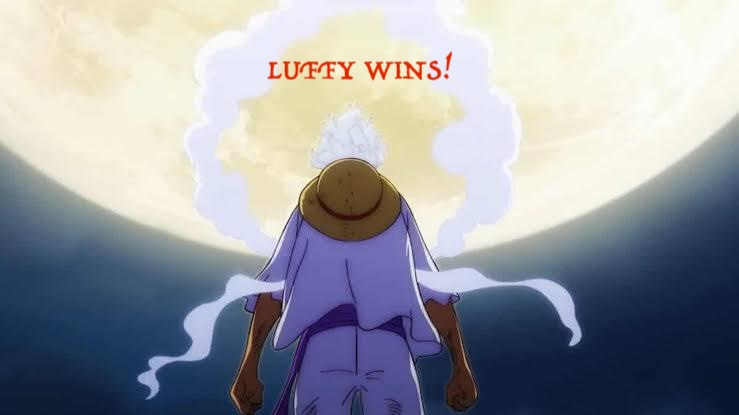
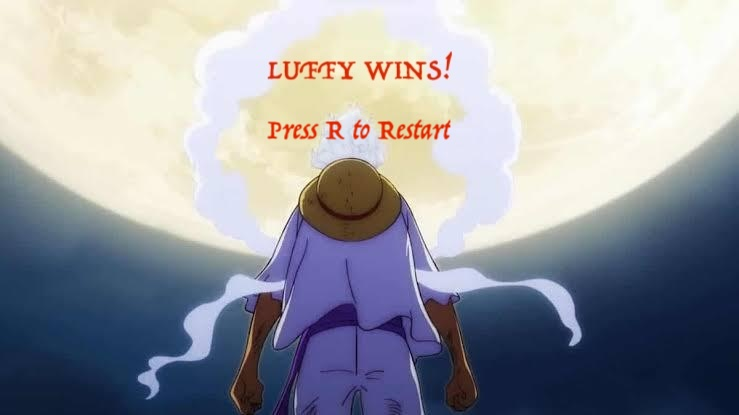
Game Over Status + Resetting game functionality

Changed region(s): [[0.3424, 0.2892, 0.6225, 0.347]]

diff --git a/Project 2/main.cpp b/Project 2/main.cpp
@@ -10,8 +10,9 @@
 
 #include "starter/cs3113.h"
 
-enum MEATSTATUS {ACTIVE, INACTIVE};
-enum WINNER {NONE, LUFFY, ZORO};
+enum Meatstatus {ACTIVE, INACTIVE};
+enum Winner {NONE, LUFFY, ZORO};
+enum GameState {PLAYING, GAME_OVER};
 
 // Global Constants
 constexpr int SCREEN_WIDTH  = 1600 / 2,
@@ -65,11 +66,13 @@ Vector2 gLuffyPosition  = LUFFY_INIT_POS,
         // background for winners
         gBackgroundScale = {SCREEN_WIDTH, SCREEN_HEIGHT};
 
-MEATSTATUS  gFirstMeatStatus = ACTIVE,
+Meatstatus  gFirstMeatStatus = ACTIVE,
             gSecondMeatStatus = INACTIVE,
             gThirdMeatStatus = INACTIVE;
-
-WINNER  victor = NONE;
+// track winner
+Winner  victor = NONE;
+// track if playing or not (update or nah)
+GameState gGameState = PLAYING;
 
 Texture2D   gLuffyTexture,
             gZoroTexture,
@@ -92,7 +95,8 @@ void update();
 void render();
 void shutdown();
 bool isColliding(const Vector2 *positionA, const Vector2 *scaleA, const Vector2 *positionB, const Vector2 *scaleB);
-void updateMeat(const Vector2 *position, const Vector2 *movement, MEATSTATUS status, float deltaTime);
+void updateMeat(const Vector2 *position, const Vector2 *movement, Meatstatus status, float deltaTime);
+void resetGame();
 
 // Function Definitions
 
@@ -120,7 +124,7 @@ bool isColliding(const Vector2 *positionA,  const Vector2 *scaleA,
 }
 
 // avoid repeating the logic for deciding whether a meat sprite would be spawned
-void updateMeat(Vector2 *position, Vector2 *movement, MEATSTATUS status, float deltaTime)
+void updateMeat(Vector2 *position, Vector2 *movement, Meatstatus status, float deltaTime)
 {
     if (status == ACTIVE) {
         position->x += movement->x * SPEED * deltaTime;
@@ -134,9 +138,40 @@ void updateMeat(Vector2 *position, Vector2 *movement, MEATSTATUS status, float d
         if (isColliding(&gZoroPosition, &gZoroScale, position, &gMeatScale)) 
             movement->x = -movement->x;
 
-        if (position->x < 0) victor = ZORO;
-        else if (position->x > SCREEN_WIDTH) victor = LUFFY;
+        if (position->x < 0) {
+            victor = ZORO; 
+            gGameState = GAME_OVER;
+        }
+        else if (position->x > SCREEN_WIDTH) {
+            victor = LUFFY; 
+            gGameState = GAME_OVER;
+        }
     }
+}
+
+// reset game to initial state - works in with the gamestate enum
+// need to reset position so doesn't auto loss when resuming the update
+void resetGame() {
+    gLuffyPosition = LUFFY_INIT_POS;
+    gZoroPosition = ZORO_INIT_POS;
+
+    gFirstMeatPosition  = INIT_POS;
+    gFirstMeatMovement  = { 0.75f, 1.0f };
+    gFirstMeatStatus = ACTIVE;
+
+    gSecondMeatPosition  = {INIT_POS.x - 100.0f, INIT_POS.y};
+    gSecondMeatMovement  = { 1.0f, 1.0f };
+    gSecondMeatStatus = INACTIVE;
+
+    gThirdMeatPosition  = {INIT_POS.x + 100.0f, INIT_POS.y};
+    gThirdMeatMovement  = { -0.75f, 1.0f };
+    gThirdMeatStatus = INACTIVE;
+
+    gLuffyMovement = {0.0f, 0.0f};
+    gZoroMovement = {0.0f, 0.0f};
+
+    victor = NONE;
+    gGameState = PLAYING;
 }
 
 void renderObject(const Texture2D *texture, const Vector2 *position, 
@@ -176,7 +211,7 @@ void renderObject(const Texture2D *texture, const Vector2 *position,
 
 void initialise()
 {
-    InitWindow(SCREEN_WIDTH, SCREEN_HEIGHT, "User Input / Collision Detection");
+    InitWindow(SCREEN_WIDTH, SCREEN_HEIGHT, "Project 2");
 
     startTime = time(NULL);
 
@@ -194,25 +229,59 @@ void initialise()
 
 void processInput() 
 {
-    if (IsKeyPressed(KEY_T)) {
-        // switch between two modes
-       isSinglePlayer = !isSinglePlayer;
-    }
+    switch (gGameState) {
+        // if game in state of playing
+        case (PLAYING):
+            if (IsKeyPressed(KEY_T)) {
+                // switch between two modes
+                isSinglePlayer = !isSinglePlayer;
+            }
 
-    if (IsKeyPressed(KEY_ONE)) {
-        gFirstMeatStatus = ACTIVE;
-        gSecondMeatStatus = INACTIVE;
-        gThirdMeatStatus = INACTIVE;
-    }
-    else if (IsKeyPressed(KEY_TWO)) {
-        gFirstMeatStatus = ACTIVE;
-        gSecondMeatStatus = ACTIVE;
-        gThirdMeatStatus = INACTIVE;
-    }
-    else if (IsKeyPressed(KEY_THREE)) {
-        gFirstMeatStatus = ACTIVE;
-        gSecondMeatStatus = ACTIVE;
-        gThirdMeatStatus = ACTIVE;
+            // if single player then auto right side (zoro)
+            if (isSinglePlayer) {
+                gLuffyMovement = {0.0f, 0.0f};
+                // using else if so can't go up and down
+                if (IsKeyDown(KEY_W)) gLuffyMovement.y = -0.75;
+                else if (IsKeyDown(KEY_S)) gLuffyMovement.y = 0.75;
+
+                if (gZoroMovement.y == 0) // make it so it goes up first if auto
+                    gZoroMovement.y = -0.75;
+                // set bounds (change direction if it touches top or bottom yk)
+                if (gZoroPosition.y - gZoroScale.y / 2 <= 0) gZoroMovement.y = 0.75;
+                else if (gZoroPosition.y + gZoroScale.y / 2 >=  SCREEN_HEIGHT) gZoroMovement.y = -0.75;
+            }
+            else {
+                gLuffyMovement = {0.0f, 0.0f};
+                if (IsKeyDown(KEY_W)) gLuffyMovement.y = -0.75;
+                else if (IsKeyDown(KEY_S)) gLuffyMovement.y = 0.75;
+
+                gZoroMovement = {0.0f, 0.0f};
+                if (IsKeyDown(KEY_UP)) gZoroMovement.y = -0.75;
+                else if (IsKeyDown(KEY_DOWN)) gZoroMovement.y = 0.75;
+            }
+
+            if (IsKeyPressed(KEY_ONE)) {
+                gFirstMeatStatus = ACTIVE;
+                gSecondMeatStatus = INACTIVE;
+                gThirdMeatStatus = INACTIVE;
+            }
+            else if (IsKeyPressed(KEY_TWO)) {
+                gFirstMeatStatus = ACTIVE;
+                gSecondMeatStatus = ACTIVE;
+                gThirdMeatStatus = INACTIVE;
+            }
+            else if (IsKeyPressed(KEY_THREE)) {
+                gFirstMeatStatus = ACTIVE;
+                gSecondMeatStatus = ACTIVE;
+                gThirdMeatStatus = ACTIVE;
+            }
+            break;
+
+        case (GAME_OVER):
+            if (IsKeyPressed(KEY_R)) {
+                resetGame();
+            }
+            break;
     }
 
     if (IsKeyPressed(KEY_Q) || WindowShouldClose()) gAppStatus = TERMINATED;
@@ -220,33 +289,13 @@ void processInput()
 
 void update() 
 {
+    // check if game over
+    if (gGameState == GAME_OVER) return;
+
     // Delta time
     float ticks = (float) GetTime();
     float deltaTime = ticks - gPreviousTicks;
     gPreviousTicks  = ticks;
-
-    // if single player then auto right side (zoro)
-    if (isSinglePlayer) {
-        gLuffyMovement = {0.0f, 0.0f};
-        // using else if so can't go up and down
-        if (IsKeyDown(KEY_W)) gLuffyMovement.y = -0.75;
-        else if (IsKeyDown(KEY_S)) gLuffyMovement.y = 0.75;
-
-        if (gZoroMovement.y == 0) // make it so it goes up first if auto
-            gZoroMovement.y = -0.75;
-        // set bounds (change direction if it touches top or bottom yk)
-        if (gZoroPosition.y - gZoroScale.y / 2 <= 0) gZoroMovement.y = 0.75;
-        else if (gZoroPosition.y + gZoroScale.y / 2 >=  SCREEN_HEIGHT) gZoroMovement.y = -0.75;
-    }
-    else {
-        gLuffyMovement = {0.0f, 0.0f};
-        if (IsKeyDown(KEY_W)) gLuffyMovement.y = -0.75;
-        else if (IsKeyDown(KEY_S)) gLuffyMovement.y = 0.75;
-
-        gZoroMovement = {0.0f, 0.0f};
-        if (IsKeyDown(KEY_UP)) gZoroMovement.y = -0.75;
-        else if (IsKeyDown(KEY_DOWN)) gZoroMovement.y = 0.75;
-    }
 
     // luffy movement
     gLuffyPosition = {
@@ -280,23 +329,30 @@ void render()
     // don't need this since using image as background
     // ClearBackground(ColorFromHex(BG_COLOUR));
 
-    // render background
-    renderObject(&gBackgroundTexture, &ORIGIN, &gBackgroundScale);
+    switch (gGameState) {
+        case (PLAYING):
+            // render background
+            renderObject(&gBackgroundTexture, &ORIGIN, &gBackgroundScale);
 
-    // render Luffy
-    renderObject(&gLuffyTexture, &gLuffyPosition, &gLuffyScale);
+            // render Luffy
+            renderObject(&gLuffyTexture, &gLuffyPosition, &gLuffyScale);
 
-    // render Zoro
-    renderObject(&gZoroTexture, &gZoroPosition, &gZoroScale);
+            // render Zoro
+            renderObject(&gZoroTexture, &gZoroPosition, &gZoroScale);
 
-    // render the meats
-    if (gFirstMeatStatus == ACTIVE) renderObject(&gFirstMeatTexture, &gFirstMeatPosition, &gMeatScale);
-    if (gSecondMeatStatus == ACTIVE) renderObject(&gSecondMeatTexture, &gSecondMeatPosition, &gMeatScale);
-    if (gThirdMeatStatus == ACTIVE) renderObject(&gThirdMeatTexture, &gThirdMeatPosition, &gMeatScale);
+            // render the meats
+            if (gFirstMeatStatus == ACTIVE) renderObject(&gFirstMeatTexture, &gFirstMeatPosition, &gMeatScale);
+            if (gSecondMeatStatus == ACTIVE) renderObject(&gSecondMeatTexture, &gSecondMeatPosition, &gMeatScale);
+            if (gThirdMeatStatus == ACTIVE) renderObject(&gThirdMeatTexture, &gThirdMeatPosition, &gMeatScale);
 
-    // winner screens
-    if (victor == LUFFY) renderObject(&gLuffyWinnerTexture, &ORIGIN, &gBackgroundScale);
-    else if (victor == ZORO) renderObject(&gZoroWinnerTexture, &ORIGIN, &gBackgroundScale);
+            break;
+        case (GAME_OVER):
+            // winner screens
+            if (victor == LUFFY) renderObject(&gLuffyWinnerTexture, &ORIGIN, &gBackgroundScale);
+            else if (victor == ZORO) renderObject(&gZoroWinnerTexture, &ORIGIN, &gBackgroundScale);
+
+            break;
+    }
 
     EndDrawing();
 }
